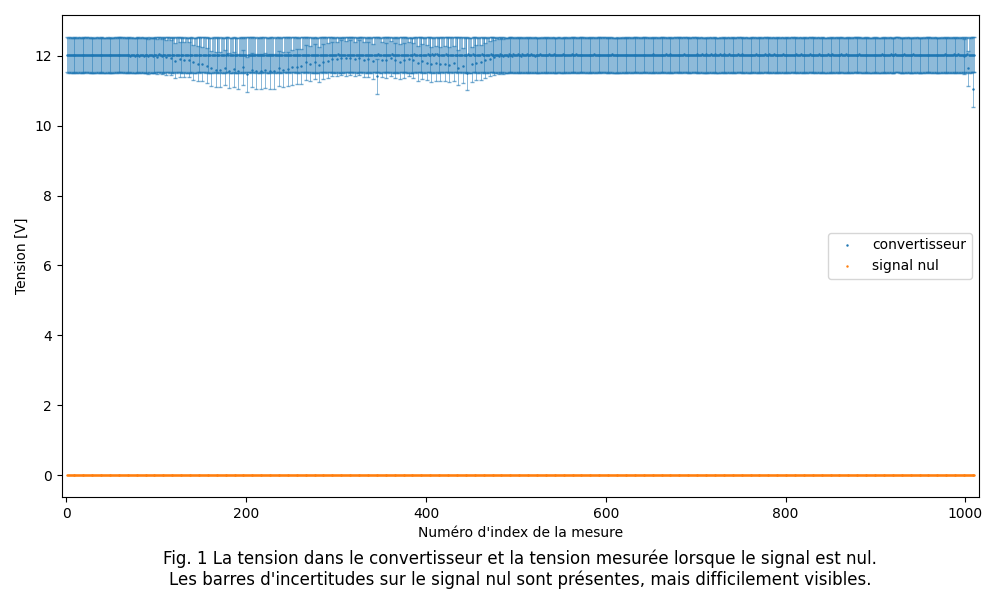
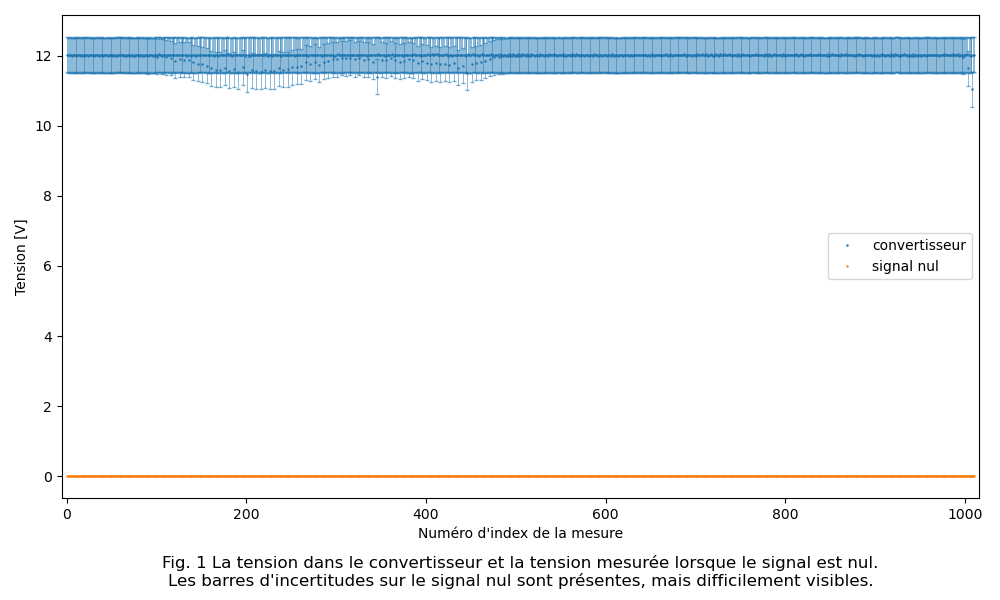
Ajout calcul résistance

diff --git a/Labo1/Programmation/Calcul_résistance.py b/Labo1/Programmation/Calcul_résistance.py
@@ -1,0 +1,52 @@
+import pandas as pd
+import matplotlib.pyplot as plt
+import numpy as np
+import os
+
+
+# Choisir le directory pour les figures et le créer s'il n'existe pas.
+plot_dir = os.path.join("Labo1/Figures/tension_constante")
+os.makedirs(plot_dir, exist_ok=True)
+
+# Les fichiers de données dans l'ordres demandés par le protocoles. Cela permet de simplement appeler files[4] par ex.
+files = ['Labo1/Mesures/convertisseur_090925_01.lvm',               #0
+         'Labo1/Mesures/convertisseur_débranché_090925_01.lvm',     #1    
+         'Labo1/Mesures/convertisseur_débranché_090925_02.lvm',     #2
+         'Labo1/Mesures/convertisseur_débranché_100925_01.lvm',     #3
+         'Labo1/Mesures/tension_patate_aluinox_090925_01.lvm',      #4
+         'Labo1/Mesures/tension_patate_aluinox_090925_02.lvm',      #5
+         'Labo1/Mesures/tension_patate_aluacier_90925_01.lvm',      #6
+         'Labo1/Mesures/tension_patate_aluacier_90925_02.lvm',      #7
+         'Labo1/Mesures/tension_patate_aluacier_90925_03.lvm',      #8
+         'Labo1/Mesures/voltage_pile_090925_01.lvm',                #9
+         'Labo1/Mesures/voltage_pile_100925_01.lvm',                #10
+         'Labo1/Mesures/voltage_circuit_090925_01.lvm',             #11
+         'Labo1/Mesures/voltage_circuit_100925_01.lvm'              #12
+         ]
+
+
+num = 12     # L'index du fichier utilisé.
+filepath = files[num]
+
+def read(file_name):
+    df = pd.read_csv(file_name, sep="\t", skiprows=22, decimal=",")
+    df = df.iloc[:, 1:].copy()
+
+    col = 1 # On ne prend qu'une seule colonne si nous n'avons qu'une seule colonne de données.
+    if df.shape[1] == 3:    # On prend 2 colonnes si on a deux colonnes de données (3 colonnes données par pandas).
+        col = 2
+
+    return df.to_numpy()[:, :col]
+
+def extraction_colonne(array, indice):
+    return array[:, indice].tolist()
+
+
+distribution_résistance = (lambda a: 12*a[:,0]/a[:,1])(read(filepath))
+print(np.average(distribution_résistance))      # Moyenne de la distribution
+print(np.median(distribution_résistance))   # Médiane de la distribution
+print((np.average(distribution_résistance)-1000)/10)    # Pourcentage d'écart 
+
+def incertitude(array, indice):
+    col = array[:, indice]
+    return 0.5 * (np.max(col) - np.min(col))

diff --git a/Labo1/Programmation/Graphique_tension_constante.py b/Labo1/Programmation/Graphique_tension_constante.py
@@ -50,7 +50,7 @@ nom = {0: 'convertisseur',
        12: "circuit"
        }
 
-num = 0     # L'index du fichier utilisé.
+num = 12     # L'index du fichier utilisé.
 filepath = files[num]
 
 def read(file_name):
